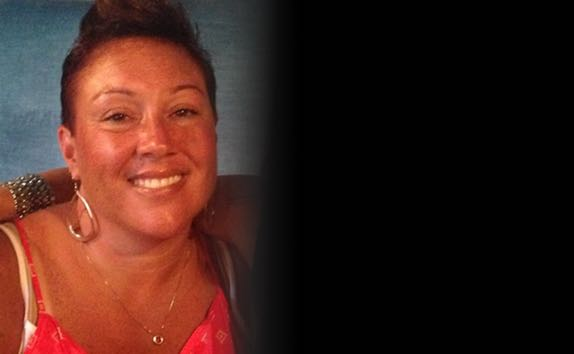
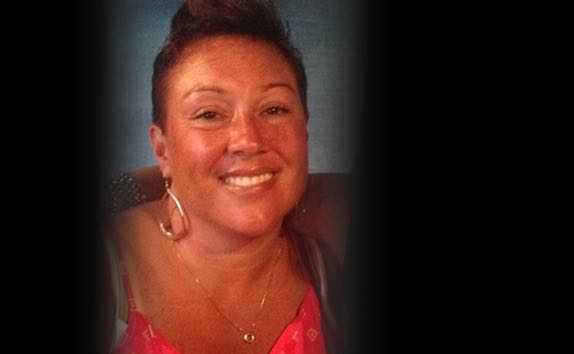
get it right, it's Heather

diff --git a/app/assets/stylesheets/pages.css.scss b/app/assets/stylesheets/pages.css.scss
@@ -121,6 +121,7 @@ overflow: hidden;
 	img {
 		height: 50px;
 		float: left;
+		margin-left: 100px;
 	}
 	p {
 		color: white;
